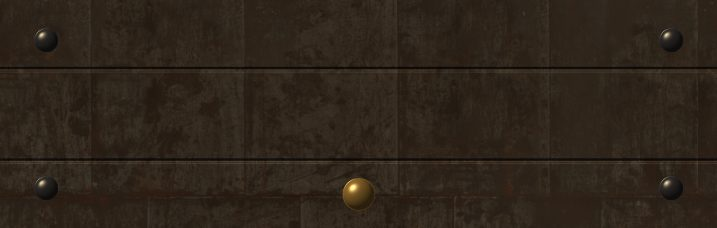
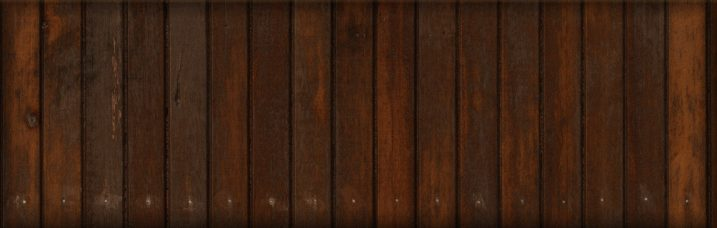
Password opening: full-screen plank door, no fake hardware, tighter tiger
Claude-Session: https://claude.ai/code/session_01E8gRiJZphncwv6kivCmQXQ

diff --git a/css/style.css b/css/style.css
@@ -928,63 +928,48 @@ html.gate-open, html.gate-open body { overflow: hidden; }
 }
 
 /* ---------- The opening (about 8 seconds) ----------
-   A real-looking speakeasy door. Times are seconds after the right password.
+   A plank door that fills the whole screen, with a small peephole. Times are seconds after the right password.
    0.0   the door fades in over the password box
    0.35  knock   0.70  knock (the door jolts)
-   1.0   the brass hatch slides open
+   1.0   the peephole's wooden slider opens
    1.4   a tiger looks out: eyes glowing, turning left, then right, a blink
    2.0   "Let's have a look at you."   3.1  "That's the one."   4.1  "Mind the stairs."
-   5.15  the hatch snaps shut
+   5.15  the slider snaps shut
    5.4   the door swings open into warm light
    6.0   the tiger emblem rises out of the light, then a gold shine   6.5  "Welcome to Easy Tiger"
    7.2   everything fades to the page   8.0  done
    Pictures: assets/door/ (real photo textures, see assets/door/CREDITS.md)            */
 .gate-stage {
+  --hatch-w: min(84vw, 700px);                   /* the peephole's size */
+  --hatch-h: calc(var(--hatch-w) / 3.2);
+  --hatch-top: 36%;
+  --tile: max(720px, 62vw);                      /* how big one picture of planks is when repeated across the screen */
   position: absolute;
   inset: 0;
   z-index: 3;
   overflow: hidden;
-  background: radial-gradient(ellipse at 50% 42%, #1c130c 0%, #0a0705 55%, #030201 100%);
+  background: #060402;
+  perspective: 1600px;
   opacity: 0;
   pointer-events: none;
 }
 
-/* the doorway: a dark frame around the door, sized like a real door on any screen */
-.door-scene {
-  position: absolute;
-  left: 50%; top: 50%;
-  width: min(100vw, calc(100dvh * 0.496));
-  aspect-ratio: 0.496;
-  transform: translate(-50%, -50%);
-  perspective: 1500px;
-}
-.door-jamb {
-  position: absolute; inset: 0;
-  background: linear-gradient(rgba(0, 0, 0, .35), rgba(0, 0, 0, .35)), url(../assets/door/jamb.jpg) 0 0 / 340px;
-  box-shadow: inset 0 0 36px 6px rgba(0, 0, 0, .85), 0 0 80px 24px rgba(0, 0, 0, .85);
-}
-
 /* what is behind the door */
-.gate-light {
-  position: absolute;
-  left: 5.5%; top: 4%; width: 89%; height: 96%;
-  overflow: hidden;
-  background: #060402;
-}
+.gate-light { position: absolute; inset: 0; }
 .gate-light-bg {
   position: absolute; inset: 0;
-  background: radial-gradient(circle at 50% 46%, #ffe7b0 0%, #f3b95c 17%, #9a5c18 42%, #2a1707 72%, #0c0703 100%);
+  background: radial-gradient(circle at 50% 46%, #ffe7b0 0%, #f3b95c 15%, #9a5c18 40%, #2a1707 70%, #0c0703 100%);
   opacity: 0;
 }
 .gate-emblem {
   position: absolute;
-  left: 50%; top: 42%;
-  width: 66%; aspect-ratio: 1;
+  left: 50%; top: 44%;
+  width: min(54vw, 270px); aspect-ratio: 1;
   transform: translate(-50%, -50%);
   border-radius: 50%;
   overflow: hidden;
   opacity: 0;
-  box-shadow: 0 0 60px 14px rgba(255, 190, 90, .45);
+  box-shadow: 0 0 70px 16px rgba(255, 190, 90, .45);
 }
 .gate-emblem img { display: block; width: 100%; height: 100%; }
 .gate-shine {
@@ -997,43 +982,50 @@ html.gate-open, html.gate-open body { overflow: hidden; }
 .gate-welcome {
   position: absolute;
   left: 0; right: 0;
-  top: 76%;
+  top: calc(44% + min(54vw, 270px) / 2 + 36px);
   margin: 0;
   text-align: center;
   font-family: var(--font-head);
-  font-size: clamp(.85rem, 3.9vw, 1.2rem);
-  letter-spacing: .26em;
-  text-indent: .26em;
+  font-size: clamp(.95rem, 4vw, 1.35rem);
+  letter-spacing: .3em;
+  text-indent: .3em;
   text-transform: uppercase;
   color: #fff4d6;
   text-shadow: 0 0 18px rgba(255, 170, 60, .9), 0 1px 2px rgba(0, 0, 0, .6);
   opacity: 0;
 }
 
-/* the door leaf: a photographed plank door with real hardware, hinged on the left */
+/* the door: real planks repeated across the whole screen, hinged on the left, swinging away from you */
 .gate-door {
   position: absolute;
-  left: 5.5%; top: 4%; width: 89%; height: 96%;
+  inset: -24px;                                   /* a touch bigger than the screen so the jolts never show an edge */
   transform-origin: 0 50%;
   backface-visibility: hidden;
   opacity: 0;
-  background: #1a0f08 url(../assets/door/door-leaf.jpg) center / 100% 100% no-repeat;
-  box-shadow: 0 0 30px rgba(0, 0, 0, .9);
+  background: #1a0f08 url(../assets/door/door-wood.jpg) 0 calc(17vh + 24px - .516 * var(--tile)) / var(--tile) var(--tile) repeat;
+  box-shadow: 0 0 40px rgba(0, 0, 0, .9);
 }
-/* lantern light that flickers a little */
-.door-flicker {
+.door-shade {                                    /* dark corners, and the whole door a little darker */
   position: absolute; inset: 0;
-  background: radial-gradient(ellipse at 50% 22%, rgba(255, 170, 70, .20), transparent 62%);
+  background: radial-gradient(ellipse at 50% 40%, rgba(0, 0, 0, 0) 22%, rgba(0, 0, 0, .78) 100%),
+              linear-gradient(rgba(10, 5, 2, .30), rgba(10, 5, 2, .30));
+}
+.door-flicker {                                  /* lantern light that flickers a little */
+  position: absolute; inset: 0;
+  background: radial-gradient(ellipse at 50% 30%, rgba(255, 170, 70, .24), transparent 60%);
   mix-blend-mode: screen;
   pointer-events: none;
 }
 
-/* the hatch and what is behind it */
+/* the peephole: a plain cut-out with a wooden slider and the dark behind it */
 .door-hatch {
   position: absolute;
-  left: 14.45%; top: 27.6%; width: 71.1%; height: 10.21%;
+  left: 50%; top: var(--hatch-top);
+  width: var(--hatch-w); height: var(--hatch-h);
+  transform: translate(-50%, -50%);
   overflow: hidden;
   background: #000;
+  box-shadow: 0 0 0 4px #100904, 0 0 0 6px rgba(255, 205, 140, .10), 0 12px 26px rgba(0, 0, 0, .75), inset 0 0 22px 6px #000;
 }
 .hatch-tiger { position: absolute; inset: 0; overflow: hidden; }
 .tiger-pic {
@@ -1042,44 +1034,44 @@ html.gate-open, html.gate-open body { overflow: hidden; }
   object-fit: cover;
   opacity: 0;
 }
-.hatch-glow {                                   /* warm light from the passage beyond */
+.hatch-glow {                                    /* warm light from the passage beyond */
   position: absolute; inset: 0;
   background: radial-gradient(ellipse at 50% 115%, rgba(255, 150, 40, .45), transparent 62%),
               radial-gradient(ellipse at 50% 50%, transparent 55%, rgba(0, 0, 0, .75) 100%);
   mix-blend-mode: screen;
 }
-.tiger-lid {                                    /* a blink: the eye goes dark for a moment */
+.tiger-lid {                                     /* a blink: the eye goes dark for a moment */
   position: absolute;
   top: 36%; width: 14%; height: 30%;
   background: radial-gradient(ellipse, #160a03 52%, transparent 72%);
   opacity: 0;
 }
-.tiger-lid-l { left: calc(34.6% - 7%); }
-.tiger-lid-r { left: calc(65.4% - 7%); }
+.tiger-lid-l { left: calc(32.6% - 7%); }
+.tiger-lid-r { left: calc(67.4% - 7%); }
 .hatch-shutter {
   position: absolute; inset: 0;
   width: 100%; height: 100%;
   object-fit: cover;
-  box-shadow: inset 0 -4px 0 rgba(185, 138, 46, .9), 0 4px 10px rgba(0, 0, 0, .8);
+  box-shadow: inset 0 -3px 0 rgba(0, 0, 0, .6), 0 4px 10px rgba(0, 0, 0, .8);
 }
 
-/* what the doorman says */
+/* what the doorman says, on the planks below the peephole */
 .gate-line {
   position: absolute;
   left: 0; right: 0;
-  top: 56.5%;
+  top: calc(var(--hatch-top) + var(--hatch-h) / 2 + 9vh);
   margin: 0;
-  padding: 0 8%;
+  padding: 0 6%;
   text-align: center;
   font-style: italic;
-  font-size: clamp(1.45rem, 6vw, 1.95rem);
+  font-size: clamp(1.5rem, 5.4vw, 2.3rem);
   color: #fff4d6;
   text-shadow: 0 2px 12px rgba(0, 0, 0, .95), 0 0 3px rgba(0, 0, 0, .9);
   opacity: 0;
 }
 .gate-skip {
   position: absolute;
-  left: 0; right: 0; bottom: 18px;
+  left: 0; right: 0; bottom: 20px;
   margin: 0;
   text-align: center;
   font-family: var(--font-label);
@@ -1120,15 +1112,15 @@ html.gate-open, html.gate-open body { overflow: hidden; }
   0%    { opacity: 0; transform: none; }
   5%    { opacity: 1; }
   5.2%  { transform: none; }
-  6.0%  { transform: translate(-5px, 1px); }
-  7.5%  { transform: translate(3px, 0); }
+  6.0%  { transform: translate(-6px, 1px); }
+  7.5%  { transform: translate(4px, 0); }
   9%    { transform: none; }
   10.4% { transform: none; }
-  11.2% { transform: translate(-5px, 1px); }
-  12.7% { transform: translate(3px, 0); }
+  11.2% { transform: translate(-6px, 1px); }
+  12.7% { transform: translate(4px, 0); }
   14.2% { transform: none; }
   76.8% { opacity: 1; transform: none; }
-  77.6% { transform: translate(-4px, 1px); }
+  77.6% { transform: translate(-5px, 1px); }
   79%   { transform: none; }
   80.6% { opacity: 1; transform: rotateY(0deg); animation-timing-function: cubic-bezier(.55, 0, .75, .6); }
   100%  { opacity: 1; transform: rotateY(102deg); }

diff --git a/index.html b/index.html
@@ -24,8 +24,8 @@
   <link rel="preconnect" href="https://fonts.googleapis.com">
   <link rel="preconnect" href="https://fonts.gstatic.com" crossorigin>
   <link href="https://fonts.googleapis.com/css2?family=Cormorant+Garamond:ital,wght@0,400;0,500;0,600;1,400;1,500&family=Josefin+Sans:wght@400;600&family=Playfair+Display:wght@600&display=swap" rel="stylesheet">
-  <link rel="stylesheet" href="css/style.css?v=25">
-  <script src="js/firebase-config.js?v=25"></script>
+  <link rel="stylesheet" href="css/style.css?v=27">
+  <script src="js/firebase-config.js?v=27"></script>
 </head>
 <body>
 
@@ -47,36 +47,33 @@
 
     <!-- The opening: plays once the right password is in -->
     <div class="gate-stage" aria-hidden="true">
-      <div class="door-scene">
-        <div class="door-jamb"></div>
-
-        <!-- what is behind the door: warm light, the tiger, the welcome -->
-        <div class="gate-light">
-          <div class="gate-light-bg"></div>
-          <div class="gate-emblem">
-            <img src="assets/logo/easy-tiger-logo-medium.png" alt="" width="400" height="400">
-            <span class="gate-shine"></span>
-          </div>
-          <p class="gate-welcome">Welcome to Easy Tiger</p>
+      <!-- what is behind the door: warm light, the tiger, the welcome -->
+      <div class="gate-light">
+        <div class="gate-light-bg"></div>
+        <div class="gate-emblem">
+          <img src="assets/logo/easy-tiger-logo-medium.png" alt="" width="400" height="400">
+          <span class="gate-shine"></span>
         </div>
-
-        <!-- the door -->
-        <div class="gate-door">
-          <div class="door-hatch">
-            <div class="hatch-tiger">
-              <img class="tiger-pic" src="assets/door/tiger-eyes.jpg" alt="" width="1280" height="400">
-              <span class="tiger-lid tiger-lid-l"></span><span class="tiger-lid tiger-lid-r"></span>
-              <span class="hatch-glow"></span>
-            </div>
-            <img class="hatch-shutter" src="assets/door/shutter.jpg" alt="" width="717" height="228">
-          </div>
-          <span class="door-flicker"></span>
-        </div>
-
-        <p class="gate-line gate-line-1">Let&rsquo;s have a look at you.</p>
-        <p class="gate-line gate-line-2">That&rsquo;s the one.</p>
-        <p class="gate-line gate-line-3">Mind the stairs.</p>
+        <p class="gate-welcome">Welcome to Easy Tiger</p>
       </div>
+
+      <!-- the door: plain planks, a small peephole, nothing else -->
+      <div class="gate-door">
+        <span class="door-shade"></span>
+        <div class="door-hatch">
+          <div class="hatch-tiger">
+            <img class="tiger-pic" src="assets/door/tiger-eyes.jpg" alt="" width="1280" height="400">
+            <span class="tiger-lid tiger-lid-l"></span><span class="tiger-lid tiger-lid-r"></span>
+            <span class="hatch-glow"></span>
+          </div>
+          <img class="hatch-shutter" src="assets/door/shutter.jpg" alt="" width="717" height="228">
+        </div>
+        <span class="door-flicker"></span>
+      </div>
+
+      <p class="gate-line gate-line-1">Let&rsquo;s have a look at you.</p>
+      <p class="gate-line gate-line-2">That&rsquo;s the one.</p>
+      <p class="gate-line gate-line-3">Mind the stairs.</p>
       <p class="gate-skip">Tap anywhere to skip</p>
     </div>
   </div>
@@ -373,12 +370,12 @@
     <p>Easy Tiger <span aria-hidden="true">&middot;</span> Columbia, Missouri <span aria-hidden="true">&middot;</span> Tagline goes here</p>
   </footer>
 
-  <script src="js/menu-data.js?v=25" charset="utf-8"></script>
-  <script src="js/store.js?v=25"></script>
+  <script src="js/menu-data.js?v=27" charset="utf-8"></script>
+  <script src="js/store.js?v=27"></script>
   <script src="https://www.gstatic.com/firebasejs/10.14.1/firebase-app-compat.js"></script>
   <script src="https://www.gstatic.com/firebasejs/10.14.1/firebase-auth-compat.js"></script>
   <script src="https://www.gstatic.com/firebasejs/10.14.1/firebase-firestore-compat.js"></script>
-  <script src="js/store-firebase.js?v=25"></script>
-  <script src="js/main.js?v=25"></script>
+  <script src="js/store-firebase.js?v=27"></script>
+  <script src="js/main.js?v=27"></script>
 </body>
 </html>

diff --git a/CLAUDE.md b/CLAUDE.md
@@ -257,7 +257,7 @@ Add a line here each time a decision changes or a piece gets finished, so the ne
 - [ ] Admin approval page working
 - [x] Page sections reordered to match the menu (Oct 8, 2026): top to bottom the page is now hero, gold band, Drinks, The Story, The Build, Guest Book, Photos, Extras, footer. This replaces the section order in the Sections on the page list near the top of this file and the earlier note that the page order differed. Section colors still alternate (burgundy, plain, teal, plain, teal, plain).
 - [x] House Rules are now a poster section (Oct 8, 2026), live: id rules, right under the gold band and ABOVE Drinks, framed, Roman numerals I to V, big Playfair caps headline plus italic line (the wording is the five rules in the note below). It has its own first link in the top menu (House Rules). The old card is gone from Extras, so Extras now has just Pours We Remember, centered. Page and menu order: House Rules, Drinks, The Story, The Build, Guest Book, Photos, Extras. Seven links no longer fit the bar, so the phone dropdown now starts at 1000px.
-- [x] Password-right opening, version 3 (Oct 8, 2026), live, about 8 seconds, REALISTIC. Bradley said version 2 (CSS-drawn door) looked cartoonish and wanted the tiger visible behind the hatch. Now built from real picture files in assets/door/: door-leaf.jpg (a photo-scanned plank door from Poly Haven CC0, re-lit, with brass hatch frame, ring knocker, keyhole plate, iron straps and rivets drawn and lit by a script), shutter.jpg (worn iron plate), jamb.jpg (door frame), tiger-eyes.jpg (a real CC0 tiger photo by Jessica Weiller, cropped to the eyes and re-lit like lantern light). Credits are in assets/door/CREDITS.md. The door is shown as a real-proportioned door in the middle of any screen (door-scene, aspect 0.496), hinged left, swinging away in 3D. Timeline: door fades in; two knocks; hatch slides up; a tiger looks out (fades up, head turns left then right, one blink); the doorman says Let's have a look at you. / That's the one. / Mind the stairs.; hatch snaps shut; the door swings open into warm light; the tiger emblem rises with a gold shine and Welcome to Easy Tiger; fade to the page at the top. Tap/click/any key skips (0.4s fade, ignored in the first 0.5s); phones that can, buzz a double knock; reduced-motion users get a 0.4s fade. The second-by-second timeline is the comment above .gate-stage in css/style.css, and OPENING_MS (8000) in js/main.js must change with it. To rebuild the pictures (e.g. brass colour, window size) the build script is not in the repo; ask Claude to recreate it (it used Poly Haven textures wooden_gate and metal_plate_02 and the Wikimedia Commons file Tiger fangs (Unsplash).jpg). Adds about 310 KB of pictures that load while the guest types the password.
+- [x] Password-right opening, version 4 (Oct 8, 2026), live, about 8 seconds. Bradley said the fake door hardware (brass hatch frame, knocker, keyhole plate, straps, rivets) looked cheesy and the door was far too narrow on a computer, and said to revert to the original cartoon version only if it could not be made wider. It COULD be made wider, so there is no revert. Now: NO hardware at all. The door is a seamless real-photo plank tile (assets/door/door-wood.jpg, Poly Haven Wooden Gate, CC0, re-lit) repeated across the WHOLE screen, so it fills phones, laptops and ultrawide monitors; a plain peephole (a cut-out with a wooden slider, assets/door/shutter.jpg) sits at 36% height; behind it a real CC0 tiger photo (assets/door/tiger-eyes.jpg, Jessica Weiller via Unsplash/Wikimedia, cropped tight on the eyes). Timeline: door fades in; two knocks; slider opens; tiger fades up, turns left then right, blinks once; doorman lines Let's have a look at you. / That's the one. / Mind the stairs.; slider snaps shut; the whole door swings open in 3D (hinged left) into warm light; the emblem rises with a gold shine and Welcome to Easy Tiger; fade to the page. Tap/click/any key skips (0.4s fade, ignored for the first 0.5s); phones that can, buzz a double knock; reduced motion = 0.4s fade. Tested at 360x640, 390x844, 1366x768, 1920x1080 and 2560x1080. Timeline lives in the comment above .gate-stage in css/style.css; OPENING_MS (8000) in js/main.js must change with it. The cross-rail position is set in the .gate-door background-position (rail at 17vh). To remake the pictures the build script is not in the repo; recreate from the Poly Haven wooden_gate texture and the Wikimedia Commons file Tiger fangs (Unsplash).jpg. About 375 KB of pictures, loaded while the guest types the password. Credits: assets/door/CREDITS.md.
 - [x] House Rules are final at FIVE (Oct 8, 2026), live. Each is a bold headline plus an italic line, no numbers on the page: (1) Phones Off. Conversation On. / Be in the Moment. (2) Drink It, Don't Save It. / It's Here to Drink, Not Look At. (3) Pour a Little for Your Neighbor. / An Empty Glass Is Everyone's Problem. (4) Leave Your Bad Day at the Door. / Pick It Back Up on the Way Out. (5) Stay Late(ish). / The More We Like You, the Later We're Open. Bradley chose rule 4 from options I offered. I added a comma in rule 5's second line and a period after Stay Late(ish) for consistency. Old rules are in git history.
 - [x] Nav order changed (Oct 8, 2026, Bradley's call): Drinks, The Story, The Build, Guest Book, Photos, Extras. Only the LIST order changed. The sections on the page are still in the old order (Story, Build, Drinks, ...), so the first link jumps down the page. Offered to reorder the page itself to match; he hasn't answered yet.
 - [x] Phone navigation (Oct 8, 2026): at 1000px wide and under (it was 860 until House Rules made seven links), the top bar shows the tiger, EASY TIGER and a gold three-line button (icon only, on purpose: Bradley didn't like the word Menu being confusable) that drops a solid black list of the six links (big tap targets, 55px+). It closes on link tap, tapping outside, Escape, tapping the logo, or widening to desktop; closed links can't be tabbed to. Above 1000px it is the normal horizontal bar. Sections land just under the bar. Most guests use phones, so check anything new at phone width first.

diff --git a/assets/door/CREDITS.md b/assets/door/CREDITS.md
@@ -2,6 +2,5 @@
 
 All of the source pictures are free to use with no conditions (CC0 / public domain). Credit is not required, but here it is:
 
-- **Wood door texture ("Wooden Gate") and iron plate texture ("Metal Plate 02")**: Poly Haven, https://polyhaven.com (CC0). Made into `door-leaf.jpg`, `shutter.jpg` and `jamb.jpg`.
+- **Wood door texture ("Wooden Gate")**: Poly Haven, https://polyhaven.com (CC0). Re-lit and saved as `door-wood.jpg` (a seamless tile that repeats across the screen) and used for the peephole slider, `shutter.jpg`.
 - **Tiger photo ("Tiger fangs")**: Jessica Weiller, via Unsplash and Wikimedia Commons (CC0), https://unsplash.com/photos/LmVSKeDy6EA. Cropped and re-lit into `tiger-eyes.jpg`.
-- The brass and iron hardware (hatch frame, knocker, keyhole plate, straps, rivets) was drawn and lit by a script, not photographed.
